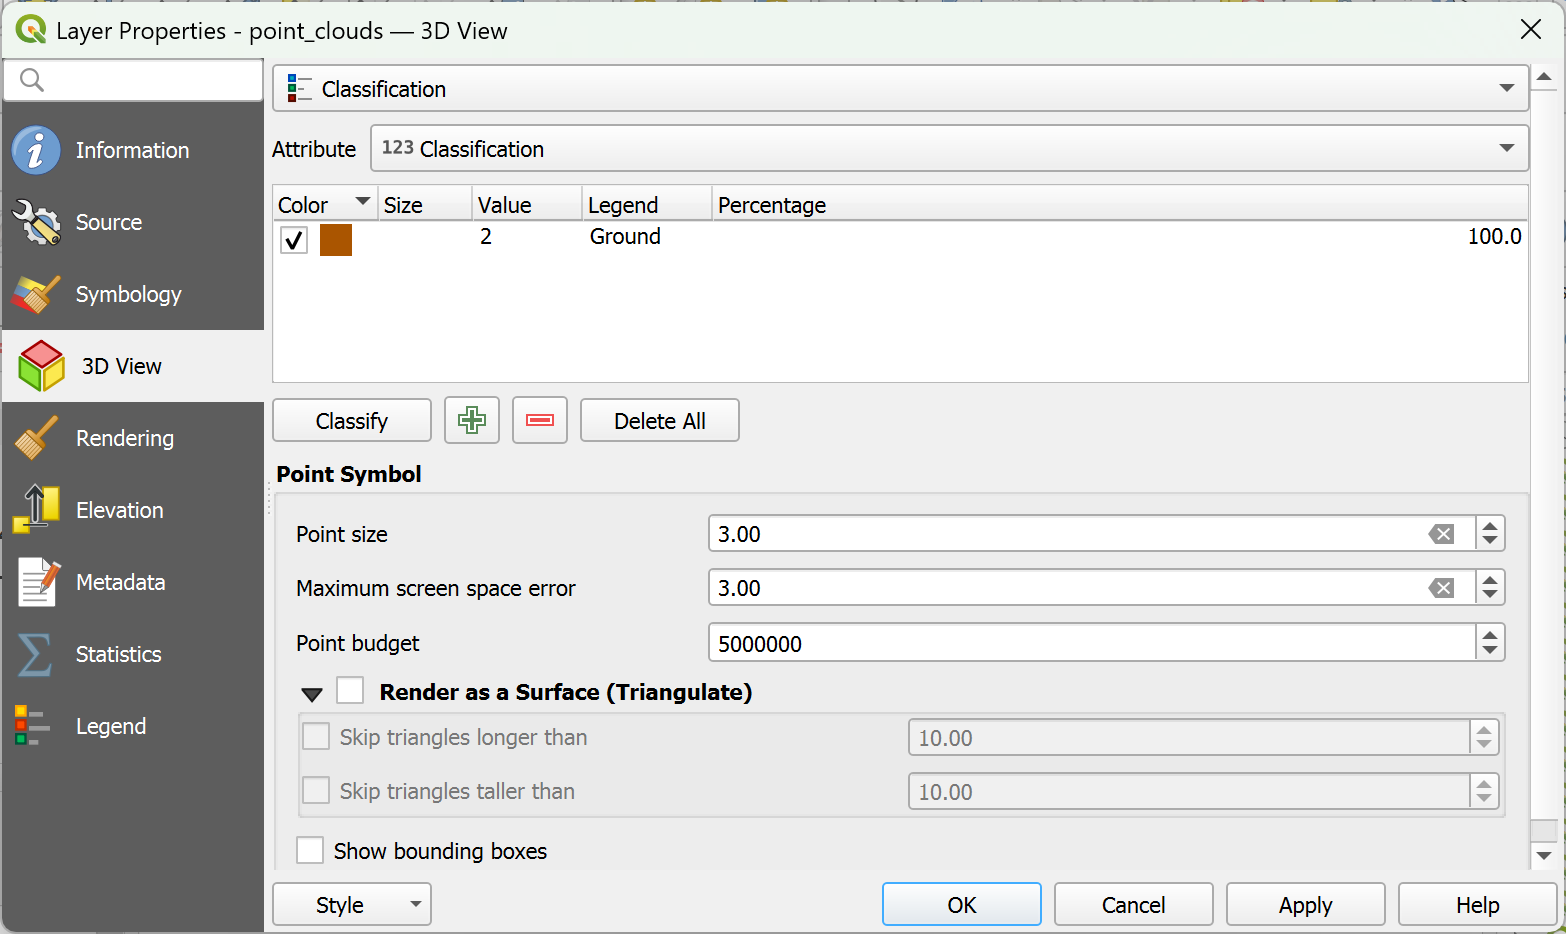
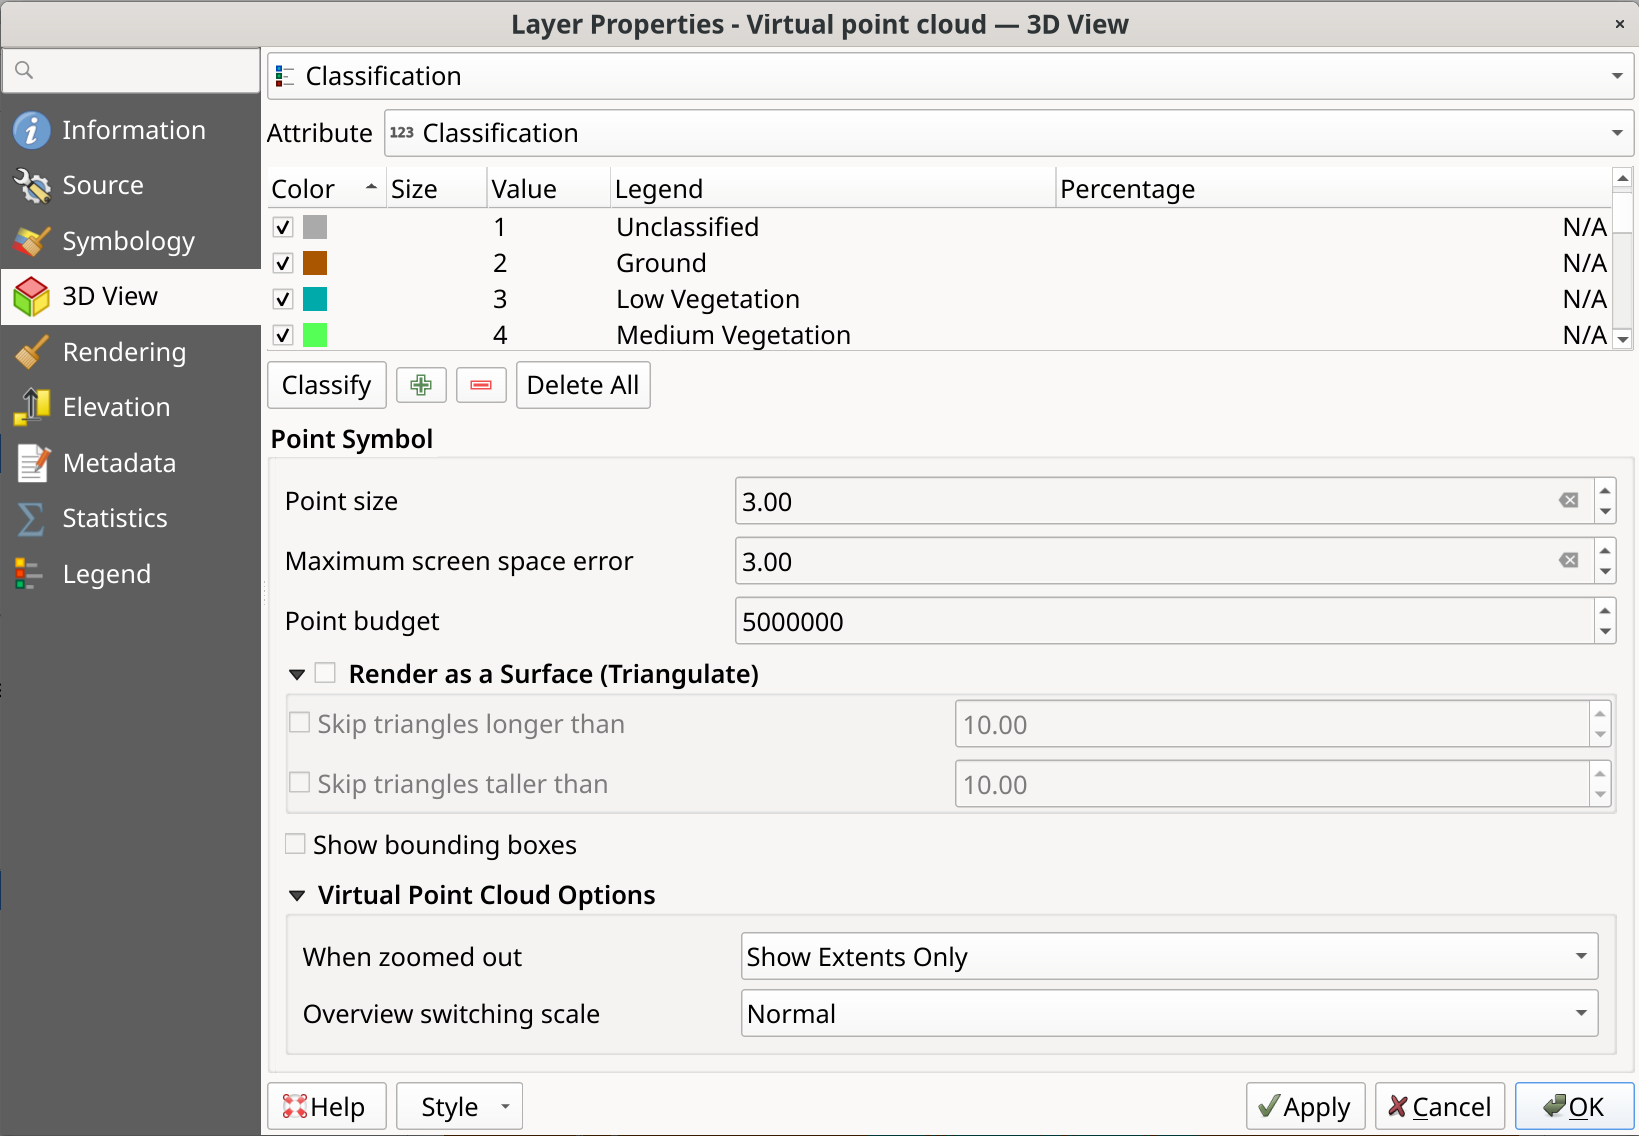
VPC - rendering update

Changed region(s): [[0.0, 0.0, 1.0, 1.0], [0.0613, 0.7762, 0.092, 0.8073]]

diff --git a/docs/user_manual/working_with_point_clouds/point_clouds.rst b/docs/user_manual/working_with_point_clouds/point_clouds.rst
@@ -493,6 +493,38 @@ You can control how the VPC is displayed when zoomed out using the available opt
 
 You can also choose to |checkbox| :guilabel:`Show tile labels` to display the tile names and set the label format.
 
+Use the :guilabel:`Overview Switching Scale` combobox to control at what zoom level
+QGIS transitions from rendering the overview to loading the full detail of individual
+point clouds. Four options are available:
+
+* :guilabel:`Later`: Detail loads only when zoomed well into the data.
+  Keeps the overview visible longer; best for large datasets or slower hardware.
+* :guilabel:`Normal` (default): A balanced threshold suitable for most datasets and hardware.
+* :guilabel:`Earlier`: Detail loads sooner, while still at a broader zoom level.
+  Useful when overview quality is insufficient and hardware can handle the extra load.
+* :guilabel:`Much Earlier`: Detail loads aggressively even when zoomed out significantly.
+  Highest visual fidelity, but most demanding on memory and GPU resources.
+
+.. note::
+   In the :guilabel:`3D Map` view, once all detailed tiles are fully loaded for the
+   current view, the overview is automatically disabled to conserve GPU resources.
+
+.. tip:: **When to change the default overview switching scale?**
+
+   Consider going with :guilabel:`Later` if:
+
+   * the map feels slow or laggy when panning
+   * you are working with very dense, large VPC datasets
+   * you mostly need an overview, not fine detail
+   * RAM or GPU memory is limited
+
+   Consider going with :guilabel:`Earlier` or :guilabel:`Much Earlier` if:
+
+   * the overview looks too coarse for your work
+   * you need full-resolution data visible earlier
+   * working with smaller, well-indexed VPC files
+   * you have plenty of RAM and a capable GPU
+
 Layer Rendering
 ...............
 
@@ -569,6 +601,7 @@ Following options can be selected from the drop down menu at the top of the tab:
 
 .. figure:: img/point_cloud_3d_view.png
    :align: center
+   :width: 80%
 
    The point cloud 3D view tab with the classification renderer
 
@@ -600,7 +633,8 @@ options:
     sets in the vertical plan, the maximum height of a side of the triangles to consider
 * |checkbox| :guilabel:`Show bounding boxes`: Especially useful for debugging,
   shows bounding boxes of nodes in hierarchy
-
+* The :guilabel:`Overview Switching Scale` option is also available here.
+  See :ref:`vpc_render` for a full description of the available settings.
 
 .. _point_clouds_rendering:
 
